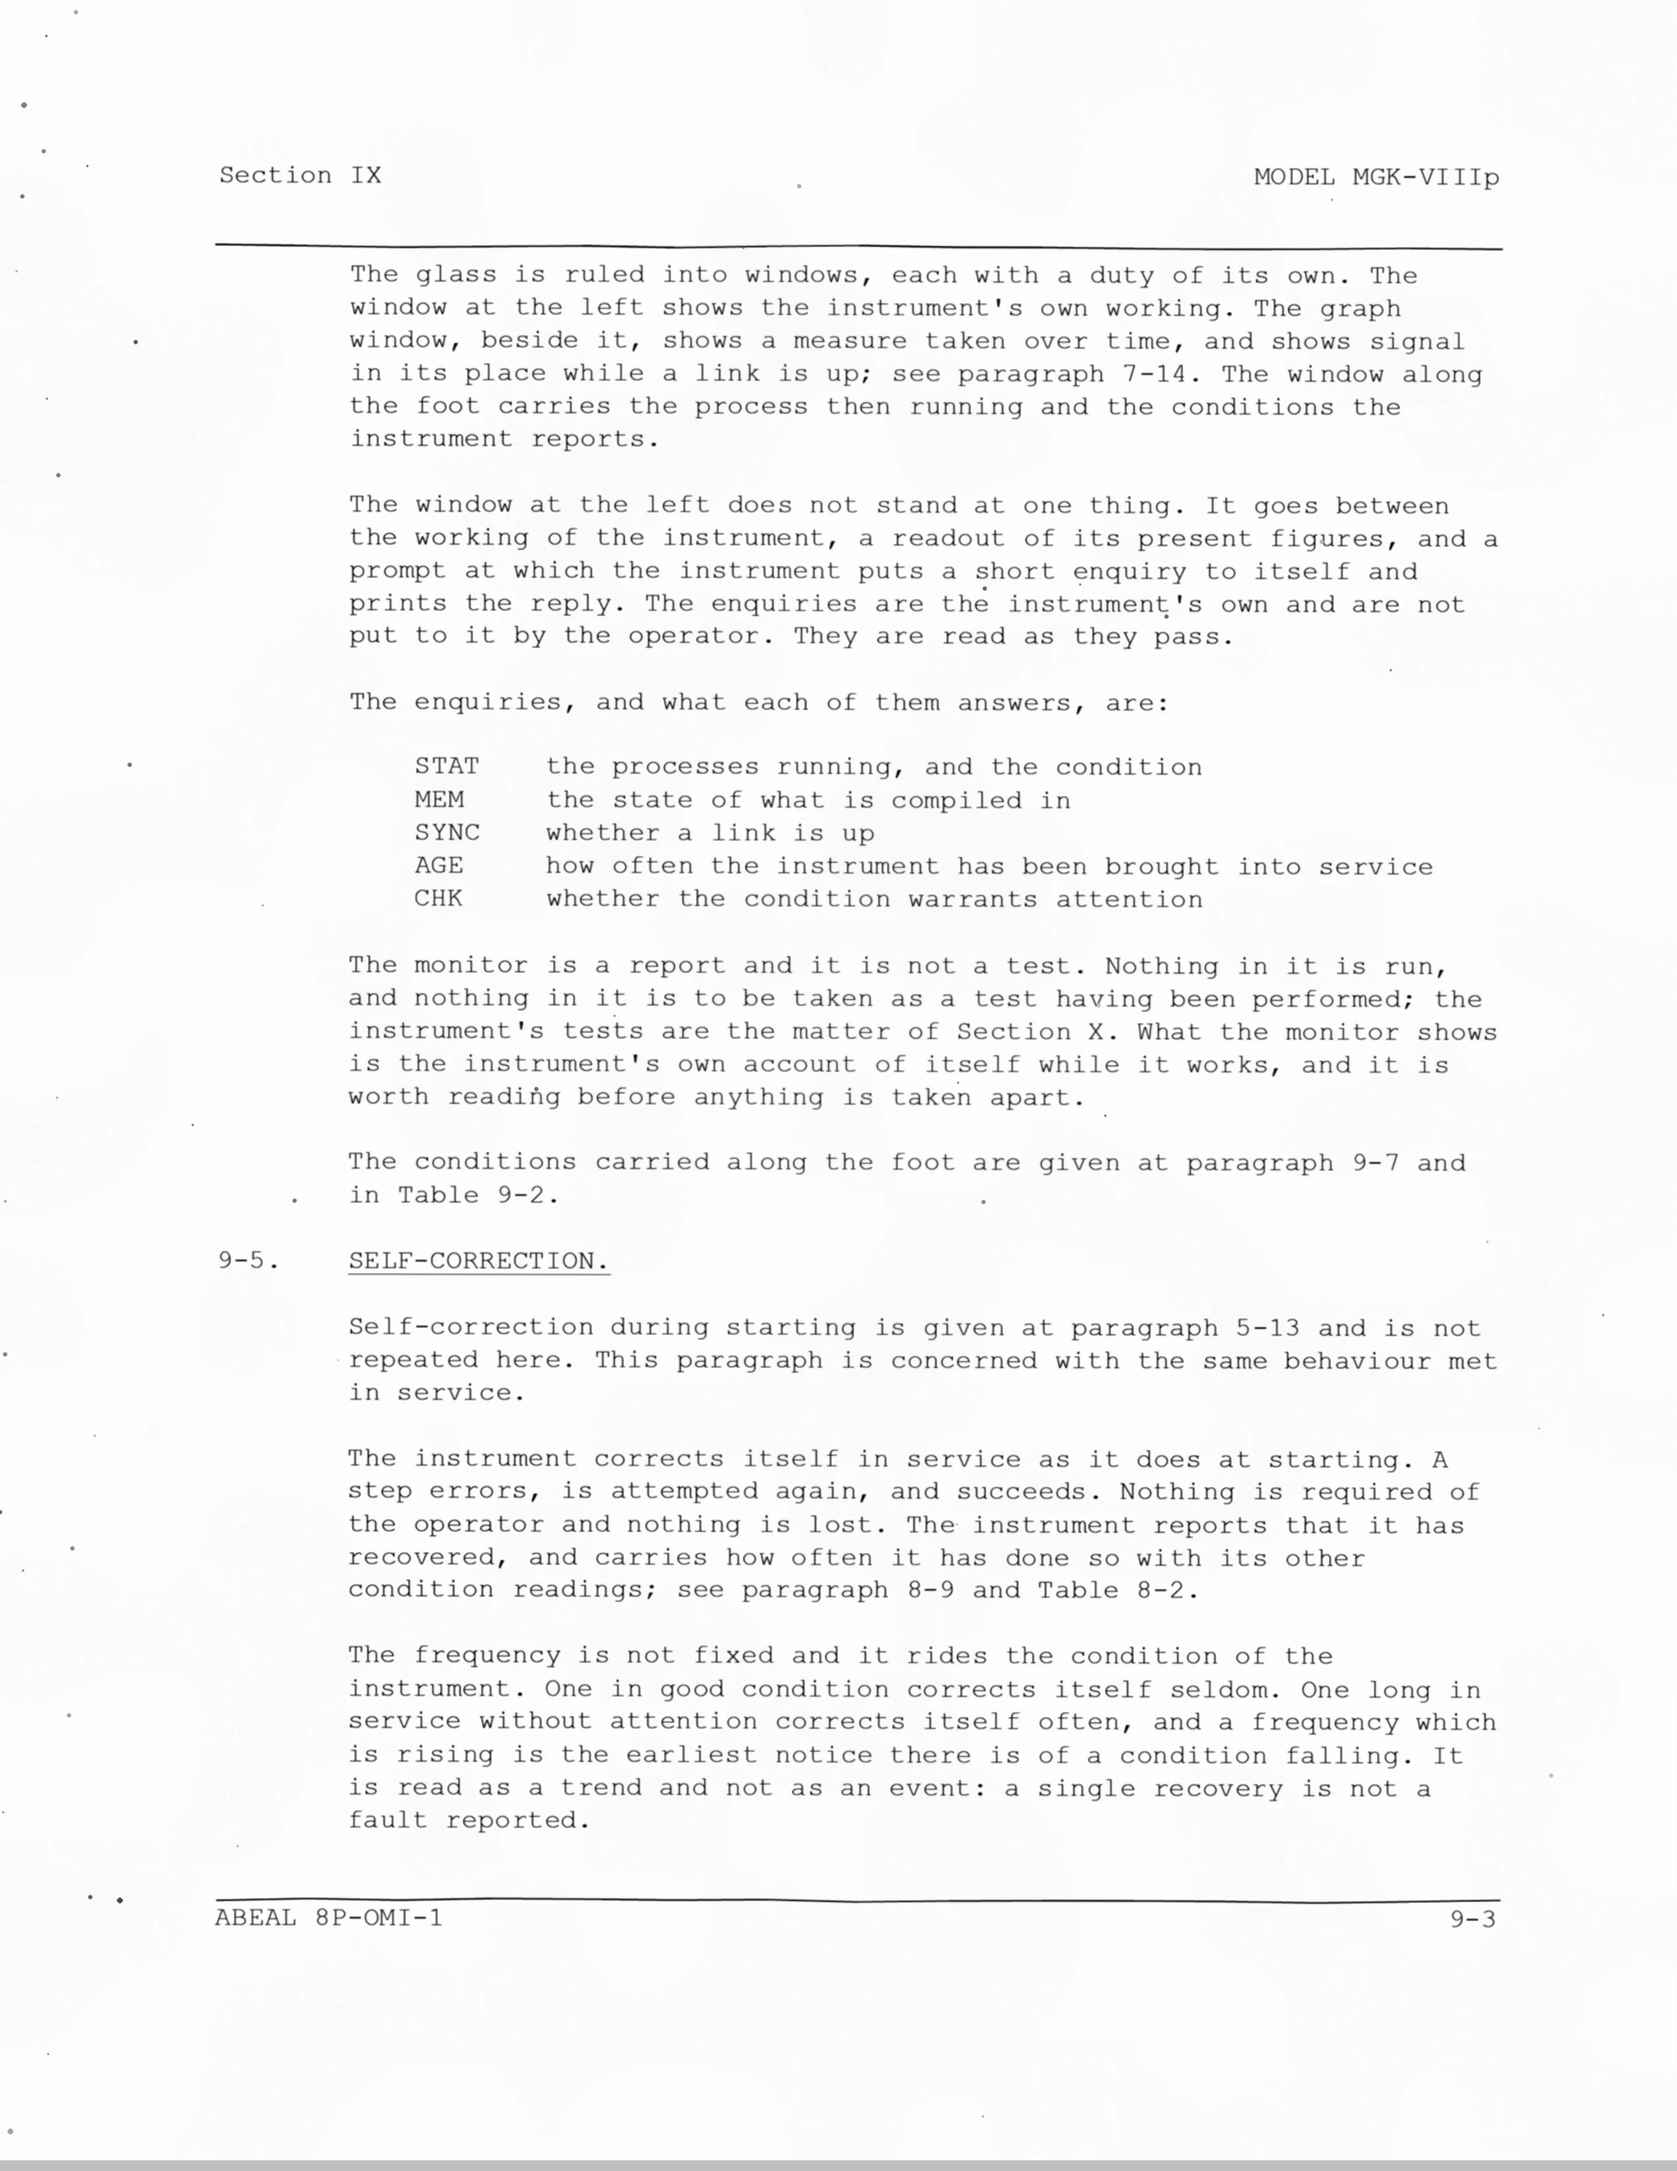
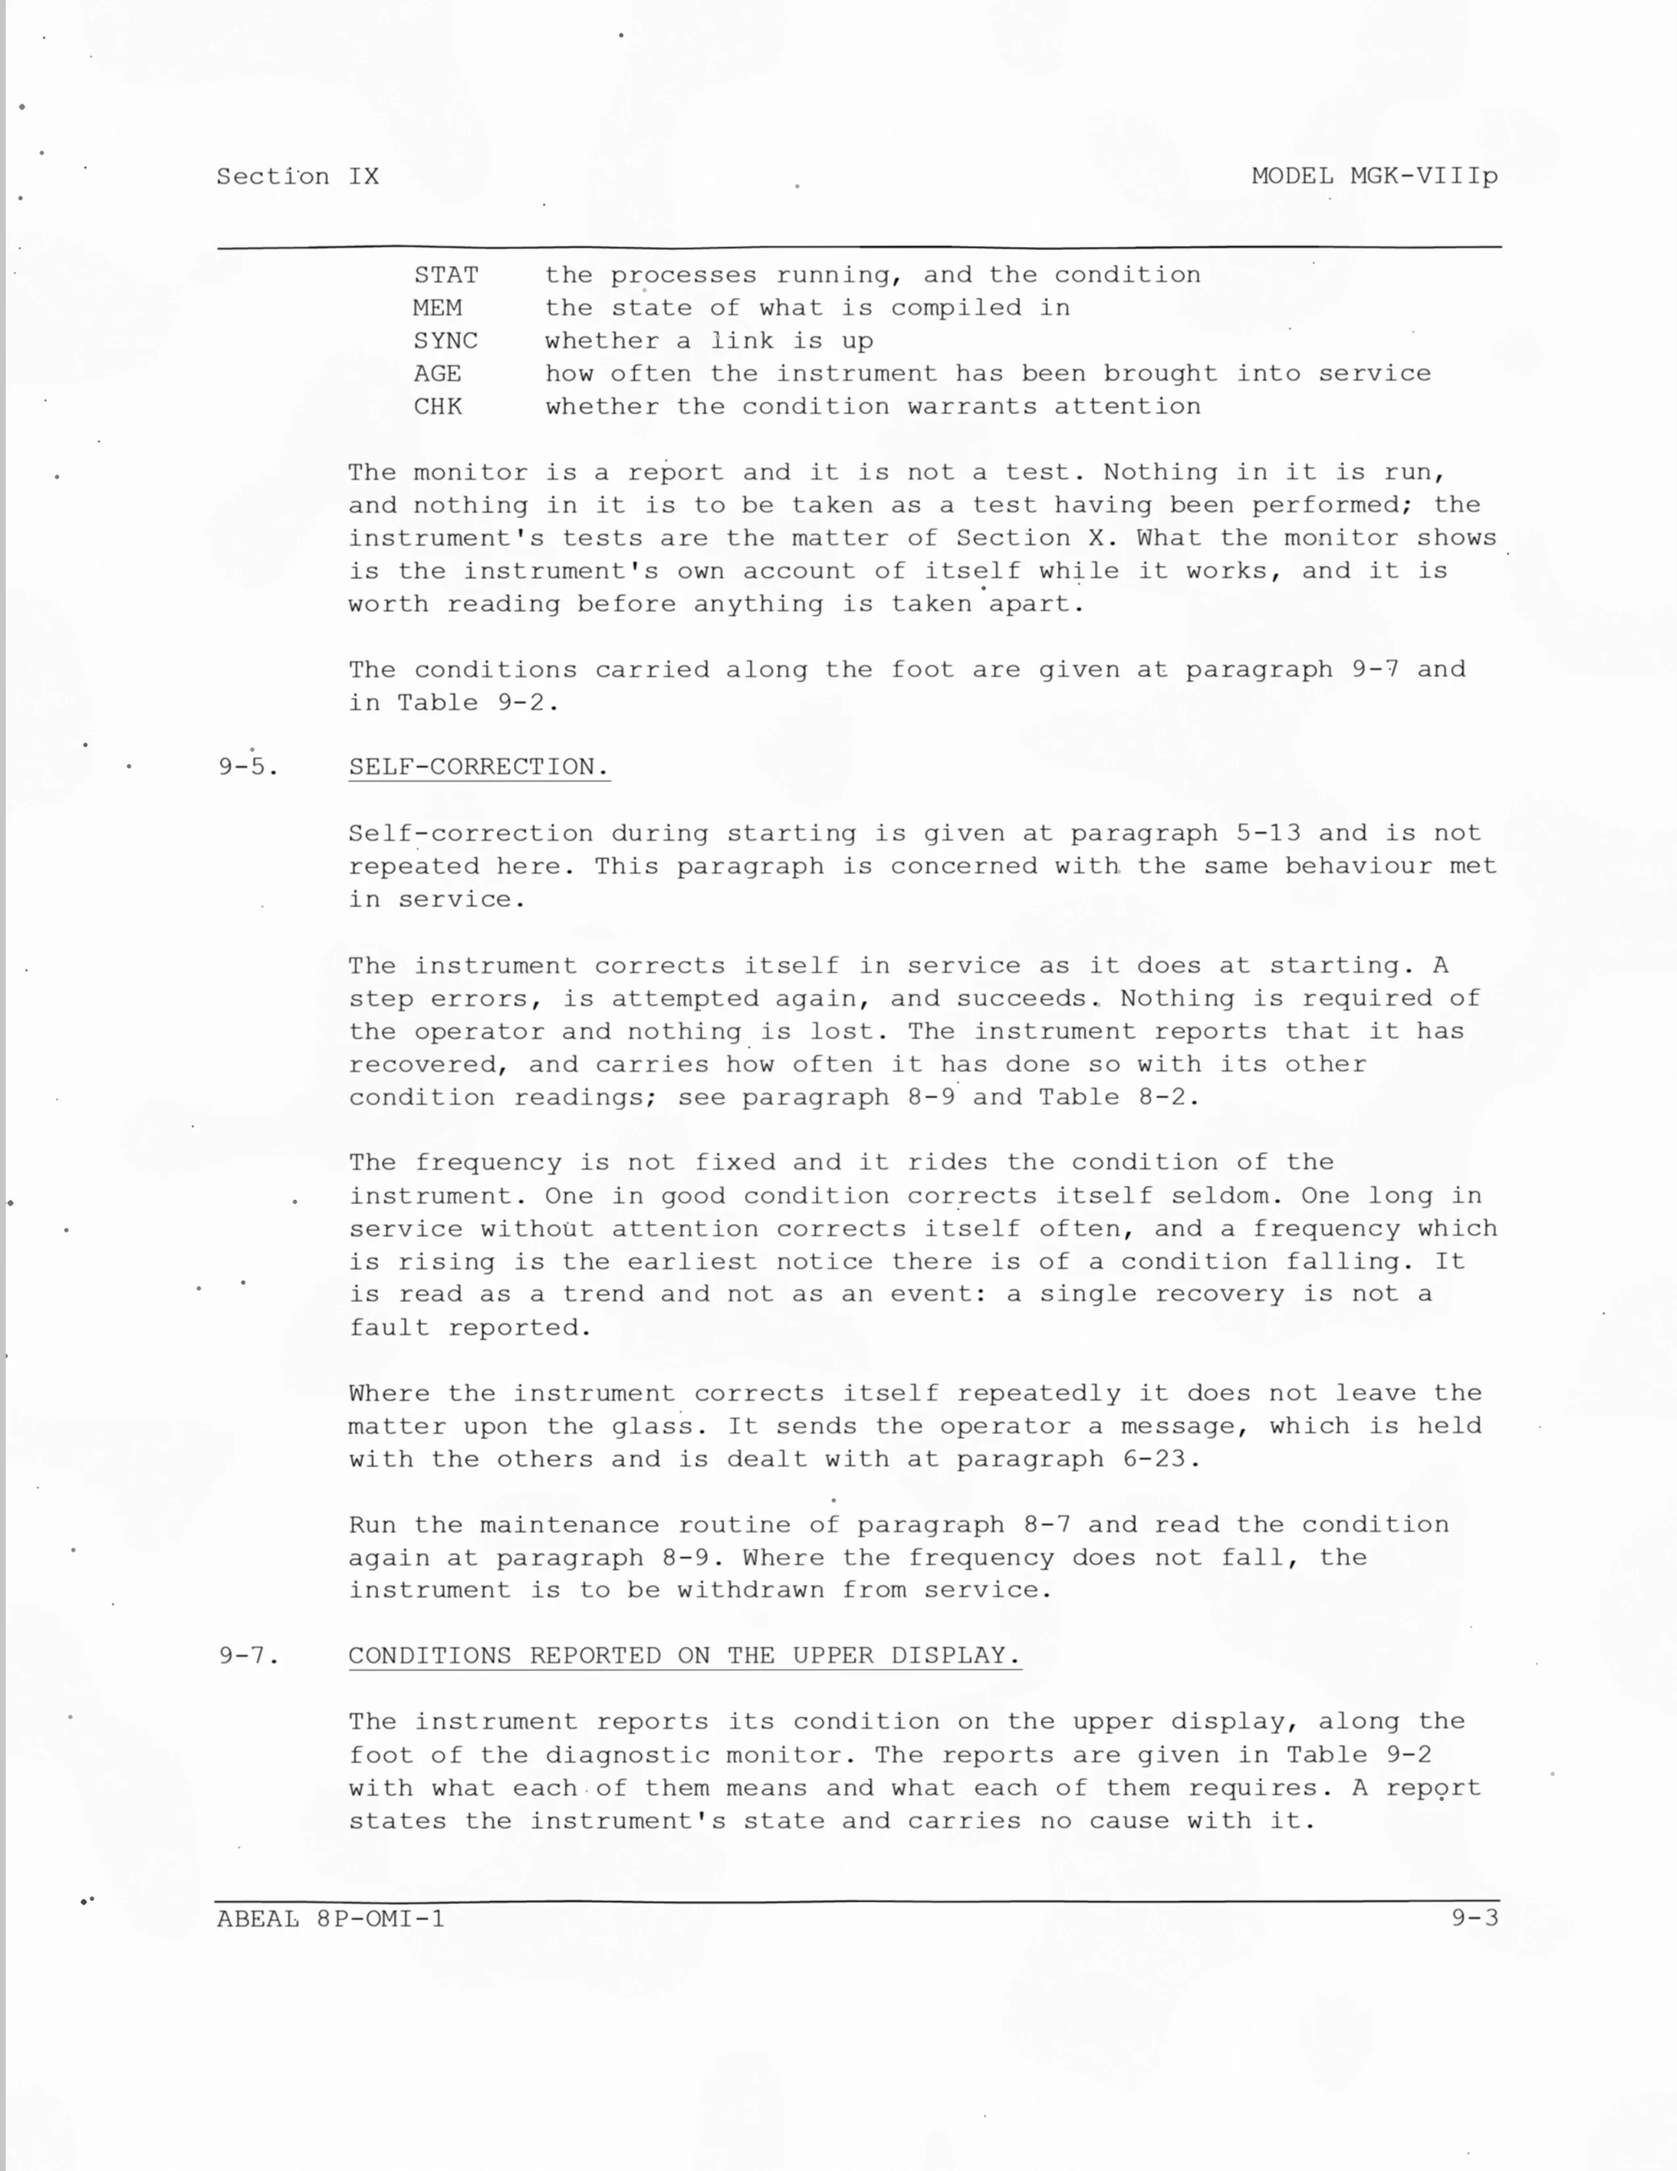
Re-render Section IX and Appendix B onto the closed chart
Table 9-1's depth came down to 59 mm in robots at 68b4b75, closing the
box on its last row and taking a leaf off Section IX. The section is
four plates where it was five, and sheet-50_9-5 is gone rather than
changed.

Appendix B moves with it. Losing a leaf in Section IX pulls everything
after it up one, so B-1 through B-3 are renamed from sheet-59 through
sheet-61 to sheet-58 through sheet-60 and re-rendered at their new
numbers. Section V is ahead of Section IX and did not move, but it
shares a plate directory with Appendix B and is re-rendered with it
byte for byte.

Every viewer is rebuilt so the selectable text under each plate matches
the plate above it.

diff --git a/docs/mock-section-ix-firstpass-20260831.html b/docs/mock-section-ix-firstpass-20260831.html
@@ -27,7 +27,7 @@ html,body{margin:0;padding:0;background:#d8d6c8;color:var(--ink);
 <button data-z="850" aria-pressed="false">50%</button>
 <button data-z="1275" aria-pressed="true">75%</button>
 <button data-z="1700" aria-pressed="false">100%</button>
-<span class="hint">5 sheets, one scroll &middot; the text under each plate is
+<span class="hint">4 sheets, one scroll &middot; the text under each plate is
 selectable &mdash; drag a line and copy it</span></div>
 <div class="wrap">
 <div class="leaf">
@@ -90,18 +90,6 @@ selectable &mdash; drag a line and copy it</span></div>
  A control is answered      The instrument is not      Withdraw from
  while off.                 off.                       service. Section
                                                        XI.
-
-
-
-
-
-
-
-
-
-
-
-
 ------------------------------------------------------------------------------
 The communications rows are observations of the line. See also Table 9-2.
 
@@ -111,12 +99,9 @@ The communications rows are observations of the line. See also Table 9-2.
         described at paragraph 7-13. It is put to a second use here. What it
         shows while the instrument is worked is the readiest account of the
         instrument&#x27;s state there is, and it is had without opening anything
-        and without interrupting the operator.</pre>
-</div>
-<div class="leaf">
-<p class="lab">9-3</p>
-<img alt="9-3" src="plates-20260831-ix/sheet-48_9-3.webp">
-<pre class="txt">        The glass is ruled into windows, each with a duty of its own. The
+        and without interrupting the operator.
+
+        The glass is ruled into windows, each with a duty of its own. The
         window at the left shows the instrument&#x27;s own working. The graph
         window, beside it, shows a measure taken over time, and shows signal
         in its place while a link is up; see paragraph 7-14. The window along
@@ -129,9 +114,12 @@ The communications rows are observations of the line. See also Table 9-2.
         prints the reply. The enquiries are the instrument&#x27;s own and are not
         put to it by the operator. They are read as they pass.
 
-        The enquiries, and what each of them answers, are:
-
-            STAT    the processes running, and the condition
+        The enquiries, and what each of them answers, are:</pre>
+</div>
+<div class="leaf">
+<p class="lab">9-3</p>
+<img alt="9-3" src="plates-20260831-ix/sheet-48_9-3.webp">
+<pre class="txt">            STAT    the processes running, and the condition
             MEM     the state of what is compiled in
             SYNC    whether a link is up
             AGE     how often the instrument has been brought into service
@@ -163,12 +151,9 @@ The communications rows are observations of the line. See also Table 9-2.
         service without attention corrects itself often, and a frequency which
         is rising is the earliest notice there is of a condition falling. It
         is read as a trend and not as an event: a single recovery is not a
-        fault reported.</pre>
-</div>
-<div class="leaf">
-<p class="lab">9-4</p>
-<img alt="9-4" src="plates-20260831-ix/sheet-49_9-4.webp">
-<pre class="txt">        Where the instrument corrects itself repeatedly it does not leave the
+        fault reported.
+
+        Where the instrument corrects itself repeatedly it does not leave the
         matter upon the glass. It sends the operator a message, which is held
         with the others and is dealt with at paragraph 6-23.
 
@@ -181,9 +166,12 @@ The communications rows are observations of the line. See also Table 9-2.
         The instrument reports its condition on the upper display, along the
         foot of the diagnostic monitor. The reports are given in Table 9-2
         with what each of them means and what each of them requires. A report
-        states the instrument&#x27;s state and carries no cause with it.
-
-        The greater part of them state that the instrument is in order and are
+        states the instrument&#x27;s state and carries no cause with it.</pre>
+</div>
+<div class="leaf">
+<p class="lab">9-4</p>
+<img alt="9-4" src="plates-20260831-ix/sheet-49_9-4.webp">
+<pre class="txt">        The greater part of them state that the instrument is in order and are
         shown in the ordinary course of work. A report which is not carried in
         Table 9-2 is not a condition this section deals with.
 
@@ -201,12 +189,10 @@ The communications rows are observations of the line. See also Table 9-2.
 
         Where the instrument advises attention it advises it and does not
         withhold service. Attention advised is not a fault reported. Run the
-        maintenance routine of paragraph 8-7.</pre>
-</div>
-<div class="leaf">
-<p class="lab">9-5</p>
-<img alt="9-5" src="plates-20260831-ix/sheet-50_9-5.webp">
-<pre class="txt">                       Table 9-2.  REPORTED CONDITIONS
+        maintenance routine of paragraph 8-7.
+
+
+                       Table 9-2.  REPORTED CONDITIONS
 
 ------------------------------------------------------------------------------
   REPORT                   MEANING                          ACTION

diff --git a/docs/mock-appendix-b-firstpass-20260830.html b/docs/mock-appendix-b-firstpass-20260830.html
@@ -32,7 +32,7 @@ selectable &mdash; drag a line and copy it</span></div>
 <div class="wrap">
 <div class="leaf">
 <p class="lab">B-1</p>
-<img alt="B-1" src="plates-20260830/sheet-59_B-1.webp">
+<img alt="B-1" src="plates-20260830/sheet-58_B-1.webp">
 <pre class="txt">                                  APPENDIX B
 
                                 BIAS SETTINGS
@@ -81,7 +81,7 @@ B-3.    ENABLE, SET, ADJUST.
 </div>
 <div class="leaf">
 <p class="lab">B-2</p>
-<img alt="B-2" src="plates-20260830/sheet-60_B-2.webp">
+<img alt="B-2" src="plates-20260830/sheet-59_B-2.webp">
 <pre class="txt">        ENABLE. A Bias Setting is enabled when its entry is taken from the
         table. Until it is taken the instrument answers at the entry it was
         left with, that entry being the one given at the foot of the table.
@@ -131,7 +131,7 @@ Factory setting: Impartial.</pre>
 </div>
 <div class="leaf">
 <p class="lab">B-3</p>
-<img alt="B-3" src="plates-20260830/sheet-61_B-3.webp">
+<img alt="B-3" src="plates-20260830/sheet-60_B-3.webp">
 <pre class="txt">                       Table B-3.  INCLINATION SETTINGS
 
 ------------------------------------------------------------------------------
